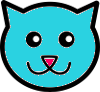
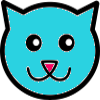
Adjust to screen resize
Movement speed increases as a function of screen size.  When window
changes size, immediately adjust corners for pink cat.  Changed images
of cats to be square 100x100px vs 100wX82h

diff --git a/gameLogic.js b/gameLogic.js
@@ -2,6 +2,7 @@ var frameRate = 50, interval;
 var corners, startTime;
 var gameActive = false, pageLoaded = false;
 var clock, clockHeight = 0, seconds = 0, minutes = 0, hours = 0, t, timeMult = 1;
+var standardArea = 1520000, screenFactor = 1;//used to scale up size/speed of game for large displays
 
 //The rat, Brie, follows the mouse pointer
 var rat = {
@@ -16,13 +17,14 @@ var rat = {
         this.goal = [window.mouseX+24, window.mouseY - clockHeight+20];//offsets for cheese cursor size
         //adjust rat's speed to prevent overshooting goal
         var dist = distance(this.pos, this.goal);
-        if ( dist < 3 ) 
+        if ( dist < 3 ) {
             this.speed = 0;
-        else
+        } else {
             this.speed = Math.min(this.maxSpeed, dist);
-        //rotate the rat image to face the goal
-        var theta = Math.atan2(this.goal[1] - this.pos[1], this.goal[0] - this.pos[0]);
-        document.getElementById("ratPic").style.transform = "rotate("+(theta*57.296-90)+"deg)";
+            //rotate the rat image to face the goal (if not too close already)
+            var theta = Math.atan2(this.goal[1] - this.pos[1], this.goal[0] - this.pos[0]);
+            document.getElementById("ratPic").style.transform = "rotate("+(theta*57.296-90)+"deg)";
+        }
     }
 };
 
@@ -178,8 +180,8 @@ function inRange(pos1, pos2, dist) {
 
 function moveTowardGoal(mover) {
     var theta = Math.atan2(mover.goal[1] - mover.pos[1], mover.goal[0] - mover.pos[0]);
-    mover.pos[0] += Math.round( mover.speed * timeMult * Math.cos(theta) );
-    mover.pos[1] += Math.round( mover.speed * timeMult * Math.sin(theta) );
+    mover.pos[0] += Math.round( mover.speed * timeMult * screenFactor * Math.cos(theta) );
+    mover.pos[1] += Math.round( mover.speed * timeMult * screenFactor * Math.sin(theta) );
     document.getElementById(mover.id).style.marginLeft = mover.pos[0] - mover.width + "px";
     document.getElementById(mover.id).style.marginTop = mover.pos[1] - mover.height + "px";
 }
@@ -263,7 +265,11 @@ function endGame() {
     document.getElementsByTagName("body")[0].style.cursor = "default";
 }
 
-window.onload = function() {
+function adjustToWindow(){
+    //Scale size/speed of game elements based on display size. 
+    //Average of 1 and ratio of expected screen size
+    screenFactor = (1+(window.innerHeight * window.innerWidth / standardArea))/2;
+    
     //use loaded elements to get game dimensions
     rat.height = $('#ratPic').height()/2;
     rat.width = $('#ratPic').width()/2;
@@ -274,6 +280,14 @@ window.onload = function() {
                 [window.innerWidth-cat3.width, cat3.height],
                 [window.innerWidth-cat3.width, window.innerHeight-cat3.height],
                 [cat3.width, window.innerHeight-cat3.height] ];
+}
+
+window.onresize = function(event) {
+    adjustToWindow();
+};
+
+window.onload = function() {
+    adjustToWindow();
     //Hide game elements until game starts
     setClassDisplay("game", "none");
     pageLoaded = true;
